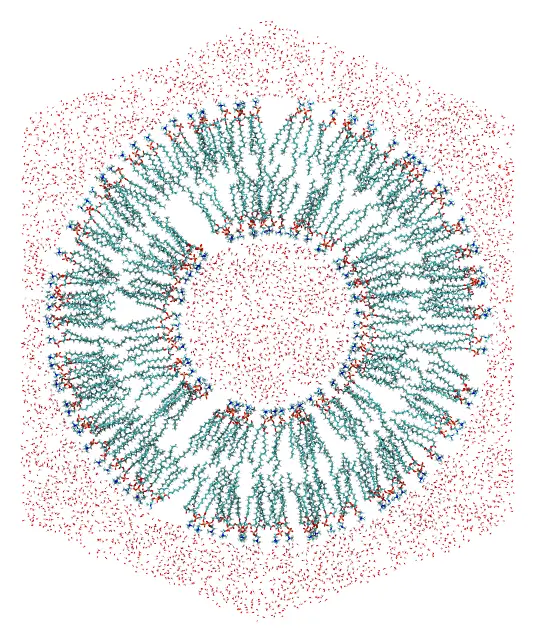
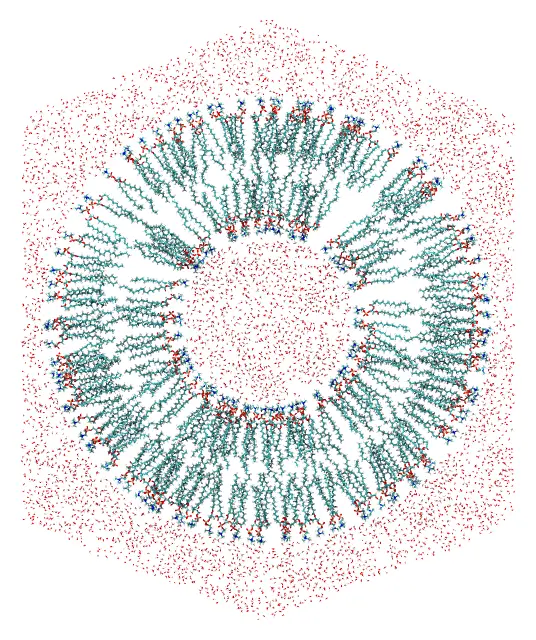
Bilayer tutorial with live views; nanoliposome images and times after #79
- The bilayer page shows the packed system and the initial placement as live `visualize`
  views (packed from the input of the tutorial when the docs are built), instead of VMD
  images; the page is added to the size-threshold exceptions (3.0 MB).
- The nanoliposome images re-rendered with the initial placement of #79 (no implicit
  confinement); the small one packs in 161 s, the large one in 618 s (14 threads).

Claude-Session: https://claude.ai/code/session_01CXddAw4T6Ean6ekQ8DQaFR

diff --git a/docs/src/tutorials/bilayer.md b/docs/src/tutorials/bilayer.md
@@ -4,9 +4,33 @@ A POPC bilayer in water, with periodic boundary conditions. The lipids of each l
 are oriented by constraints on two of their atoms: the polar heads point to the water,
 and the ends of the hydrophobic chains to the middle of the bilayer.
 
-![Lipid bilayer](images/bilayer.webp)
+```@setup bilayer
+using Packmol, PDBTools
+# The input of the tutorial, packed, and with `check_initial_placement` (for the view of
+# the initial placement below), in a copy of its files
+dir = mktempdir()
+for file in readdir(joinpath("files", "bilayer"))
+    cp(joinpath("files", "bilayer", file), joinpath(dir, file))
+end
+input = read(joinpath(dir, "bilayer.inp"), String)
+write(joinpath(dir, "check.inp"), replace(input,
+    "# check_initial_placement" => "check_initial_placement", "output bilayer.pdb" => "output check.pdb"))
+final, check = redirect_stdio(stdout = devnull, stderr = devnull) do
+    packmol(joinpath(dir, "bilayer.inp")), packmol(joinpath(dir, "check.inp"))
+end
+show_system(system) = visualize(get_atoms(system),
+    "water" => (style = :sticks, water = true),
+    "resname POPC" => (style = :sticks,);
+    unitcell = UnitCell(system.unitcell),
+    unitcell_origin = system.unitcell_center - sum(eachcol(system.unitcell)) / 2,
+)
+```
 
-*The bilayer seen from the side, with the edges of the periodic cell.*
+```@example bilayer
+show_system(final) # hide
+```
+
+*The packed bilayer (drag to rotate, scroll to zoom), with the edges of the periodic cell.*
 
 Files: [`popc.pdb`](files/bilayer/popc.pdb), [`water.pdb`](files/bilayer/water.pdb) and
 the input file [`bilayer.inp`](files/bilayer/bilayer.inp).
@@ -70,10 +94,13 @@ Uncomment the `check_initial_placement` line of the input file, and run it as be
 (see [Checking the initial placement](@ref check_initial_placement)): the initial
 placement of the molecules is written to the output file (`bilayer.pdb`):
 
-![Initial approximation](images/bilayer_check.webp)
+```@example bilayer
+show_system(check) # hide
+```
 
 *The initial approximation: the lipids are already oriented by the constraints on their
-head and tail atoms, but molecules may overlap.*
+head and tail atoms, and spread over the area of the membrane, but molecules may
+overlap.*
 
 Then comment the line again, and run the packing.
 

diff --git a/CLAUDE.md b/CLAUDE.md
@@ -111,7 +111,8 @@ vesicle, solvated protein; the bilayer and the vesicle redone with the all-atom 
 both paths equivalent when changing the input syntax or the Julia API.
 Tutorial images (`docs/src/tutorials/images/*.webp`) are rendered with VMD by the scripts of
 `dev/tutorials/` (`render.jl`; `classic.jl` for the classic examples, `lipids.jl` for the
-bilayer and the nanoliposomes). Tutorials of non-trivial
+nanoliposomes; the bilayer, zeolite, polymer, nanotube and liquid crystal pages have live
+`visualize` views instead). Tutorials of non-trivial
 systems first show the initial placement (`check_initial_placement`), then the packing.
 The input files of the tutorials are files of `docs/src/tutorials/files/<tutorial>/`, shown in
 the pages with `@eval Main.input_file(path)` (`docs/make.jl`; in a `<details>` drop-down box

diff --git a/docs/src/tutorials/nanoliposome.md b/docs/src/tutorials/nanoliposome.md
@@ -150,8 +150,8 @@ Run it with:
 packmol small.inp
 ```
 
-The packed system is written to `small.pdb`, in about 4 minutes with 14 threads.
-The larger nanoliposome (`packmol large.inp`) takes about 13 minutes.
+The packed system is written to `small.pdb`, in about 3 minutes with 14 threads.
+The larger nanoliposome (`packmol large.inp`) takes about 10 minutes.
 
 ## Julia
 
